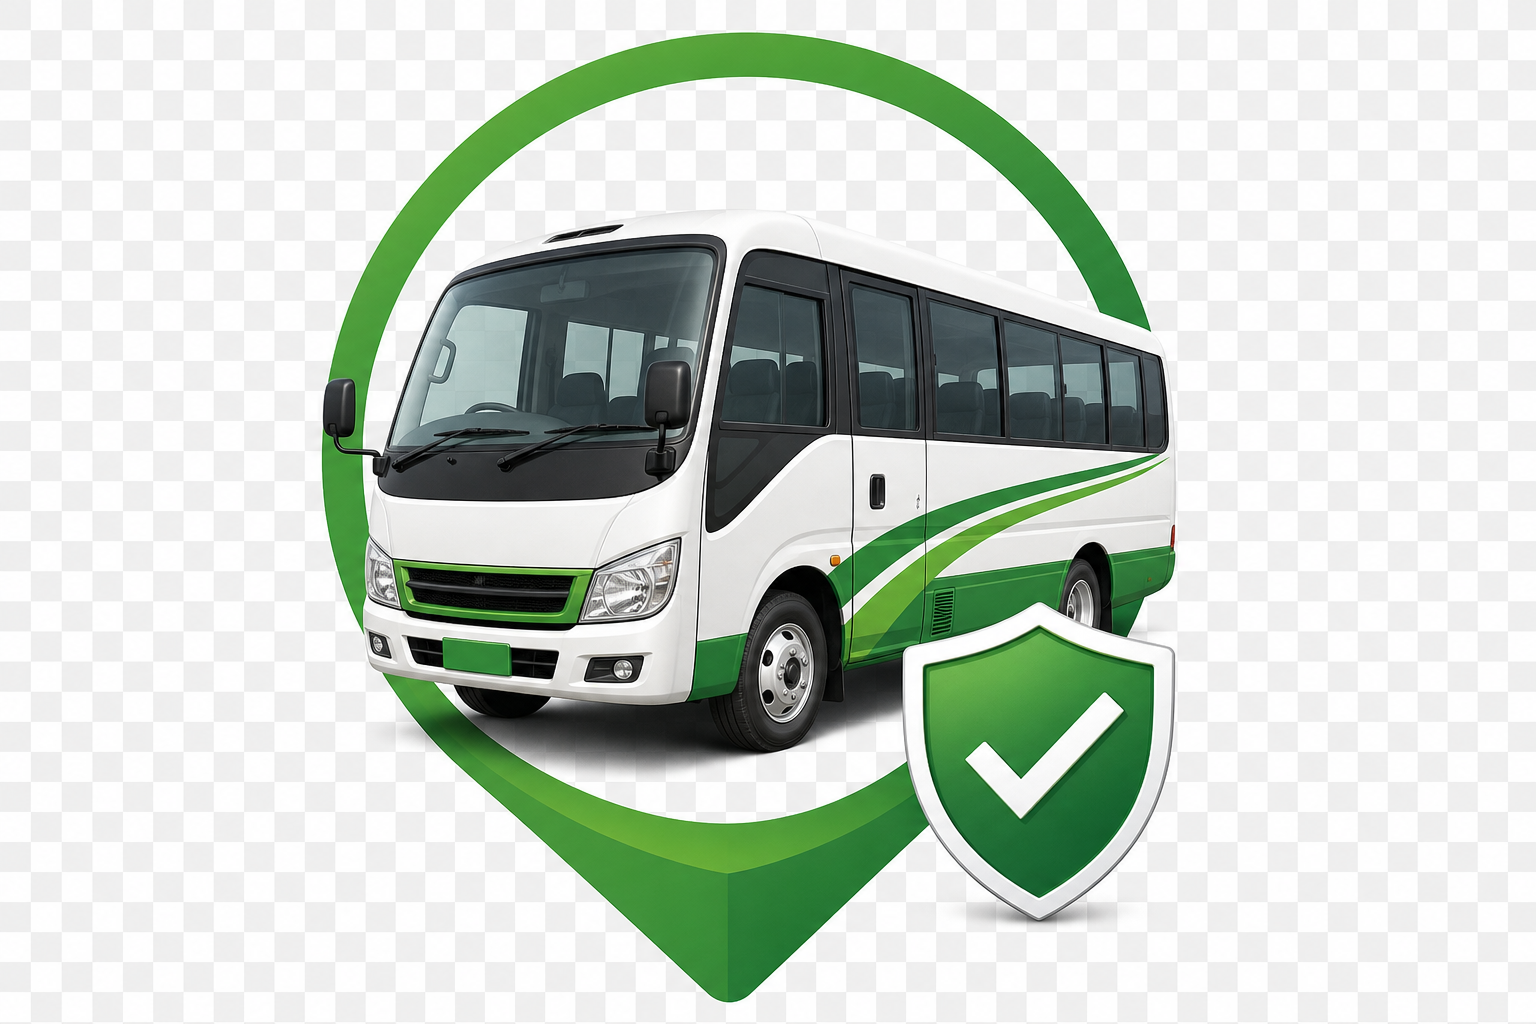
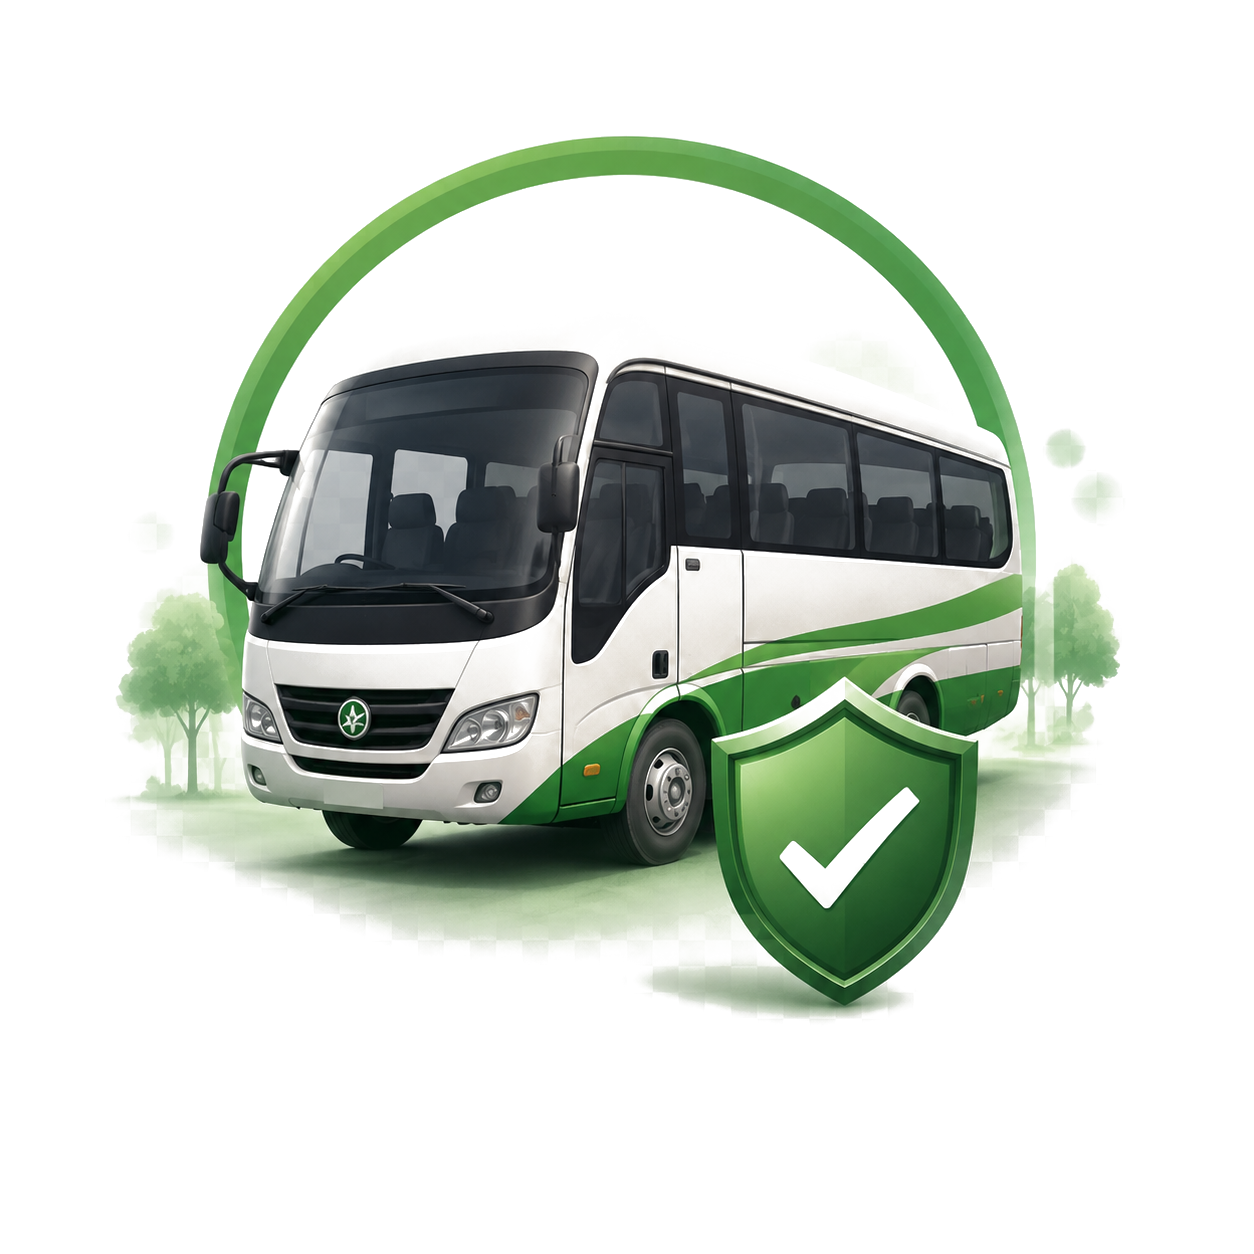
Replace white-background assets with transparent PNGs from SAFE asset pack
Fixed: bus-stop-cover.png and verified-bus-shield.png had RGB format
(opaque white backgrounds showing as ugly white rectangles in the UI)

Replaced with proper RGBA transparent PNGs from SAFE_transparent_assets_pack:
- cover/bus-stop-cover.png ← safe_and_calm_bus_stop_vignette_transparent.png
- transport/verified-bus-shield.png ← green_bus_with_protective_emblem_transparent.png

Added two new transparent assets:
- transport/road-to-security.png (road/trees/shield scene for Choose Cover banner)
- transport/route-strip-real.png (route markers with bus icon for Active Cover)

Updated components:
- Choose Cover banner now uses road-to-security illustration
- Active Cover route strip uses real route-strip-real asset with labels
- Asset registry updated with new imports
- CSS added for route strip visual layout and transparency rules

All assets verified: RGBA PNG with alpha channel, no white boxes visible

diff --git a/apps/mobile/src/styles.css b/apps/mobile/src/styles.css
@@ -1689,3 +1689,41 @@ html, body, #root {
 .nav-item.cover-btn:active {
   transform: scale(0.92) translateY(6px);
 }
+
+/* ========================================
+   Route Strip Real Asset
+   ======================================== */
+
+.route-strip-visual {
+  padding: 8px 0;
+}
+
+.route-strip-visual img {
+  display: block;
+  max-height: 56px;
+}
+
+.route-strip-labels {
+  display: flex;
+  justify-content: space-between;
+  padding: 4px 8px 0;
+}
+
+.route-label-start,
+.route-label-end {
+  font-size: 12px;
+  font-weight: 700;
+  color: var(--text-primary);
+}
+
+/* ========================================
+   Transparent Asset Blending
+   ======================================== */
+
+.banner-card-illust img,
+.cover-hero-right img,
+.verified-card img,
+.empty-state img {
+  mix-blend-mode: normal;
+  background: transparent;
+}

diff --git a/apps/mobile/src/App.jsx b/apps/mobile/src/App.jsx
@@ -468,7 +468,7 @@ function ChooseScreen({ goTo, products, selectedProductId, setSelectedProductId,
           <p>You choose the cover, we've got you covered.</p>
         </div>
         <div className="banner-card-illust">
-          <img src={ASSETS.transport.busStopCover} alt="SAFE commuter cover" style={{ width: 130, height: 'auto', objectFit: 'contain', opacity: 0.9 }} />
+          <img src={ASSETS.transport.roadToSecurity} alt="SAFE commuter cover" style={{ width: 140, height: 'auto', objectFit: 'contain' }} />
         </div>
       </div>
 
@@ -713,10 +713,12 @@ function ActiveCoverScreen({ goTo, coverState, countdown }) {
           </div>
 
           <div className="route-strip">
-            <div className="route-strip-stops">
-              <div className="route-stop"><div className="route-dot green" /><span>{coverState.route?.origin || 'Matero'}</span></div>
-              <div className="route-strip-line"><Bus size={14} /></div>
-              <div className="route-stop"><div className="route-dot red" /><span>{coverState.route?.destination || 'Town'}</span></div>
+            <div className="route-strip-visual">
+              <img src={ASSETS.transport.routeStripReal} alt="Route" style={{ width: '100%', height: 'auto', objectFit: 'contain' }} />
+            </div>
+            <div className="route-strip-labels">
+              <span className="route-label-start">{coverState.route?.origin || 'Matero'}</span>
+              <span className="route-label-end">{coverState.route?.destination || 'Town'}</span>
             </div>
             <p className="route-strip-est">Est. duration: ~30 mins</p>
           </div>

diff --git a/apps/mobile/src/config/assets.js b/apps/mobile/src/config/assets.js
@@ -2,6 +2,8 @@ import safeLogoFull from '../assets/brand/safe-logo-full.png';
 import safeLogoSmall from '../assets/brand/safe-logo-512.png';
 import busStopCover from '../assets/cover/bus-stop-cover.png';
 import verifiedBusShield from '../assets/transport/verified-bus-shield.png';
+import roadToSecurity from '../assets/transport/road-to-security.png';
+import routeStripReal from '../assets/transport/route-strip-real.png';
 import lusakaAerial from '../assets/map/lusaka-night-aerial.png';
 
 export const ASSETS = {
@@ -12,6 +14,8 @@ export const ASSETS = {
   transport: {
     verifiedBusShield,
     busStopCover,
+    roadToSecurity,
+    routeStripReal,
   },
   map: {
     lusakaAerial,